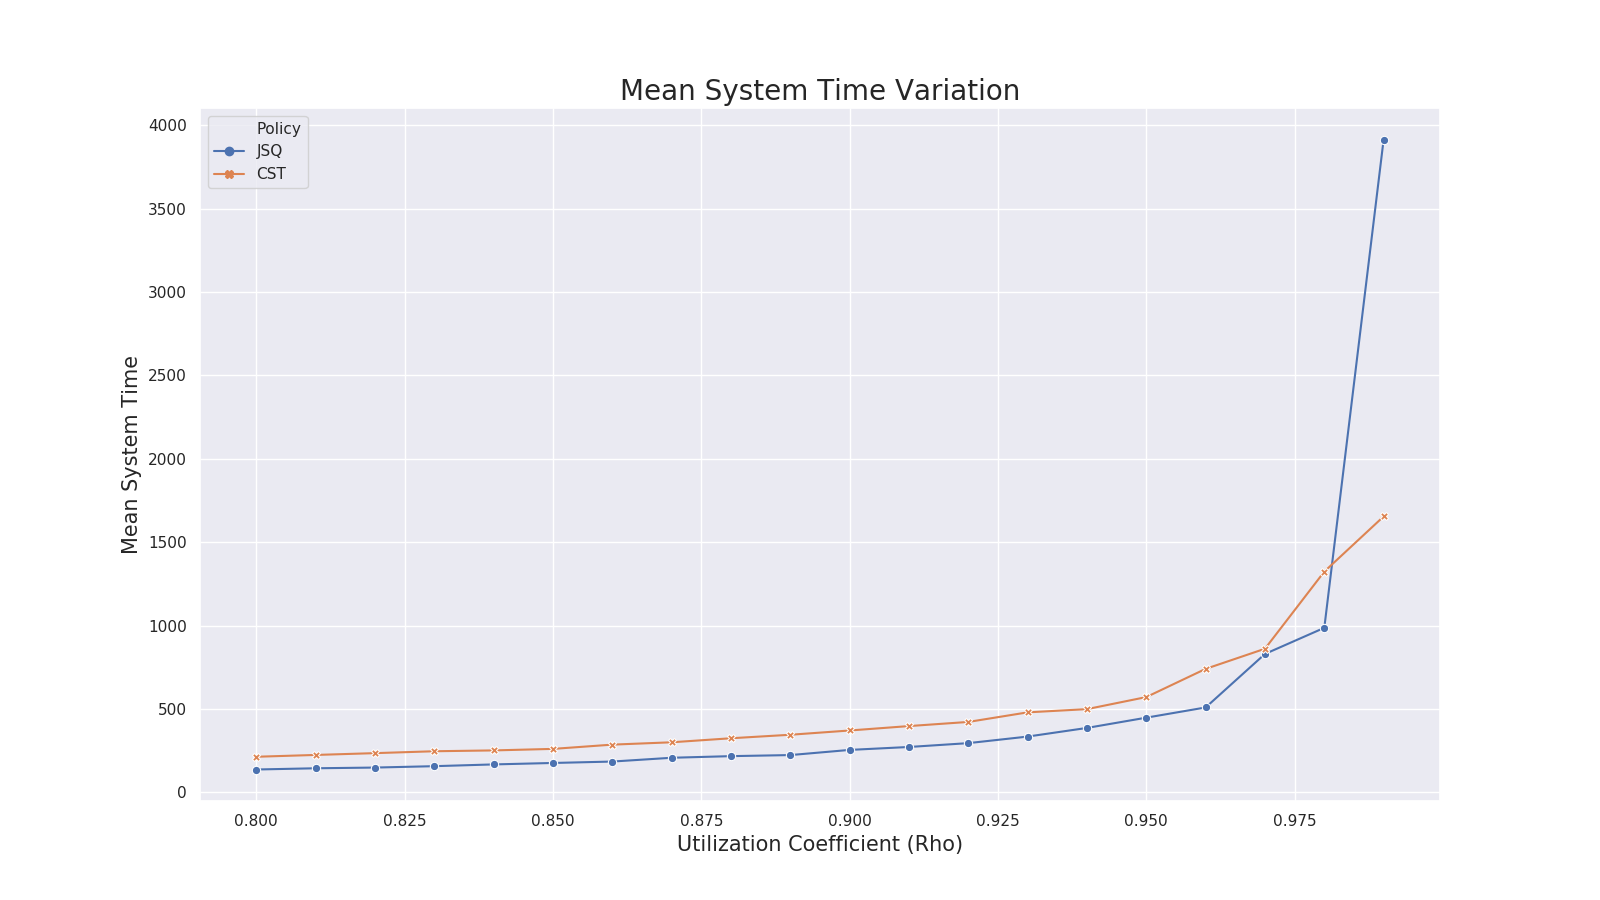
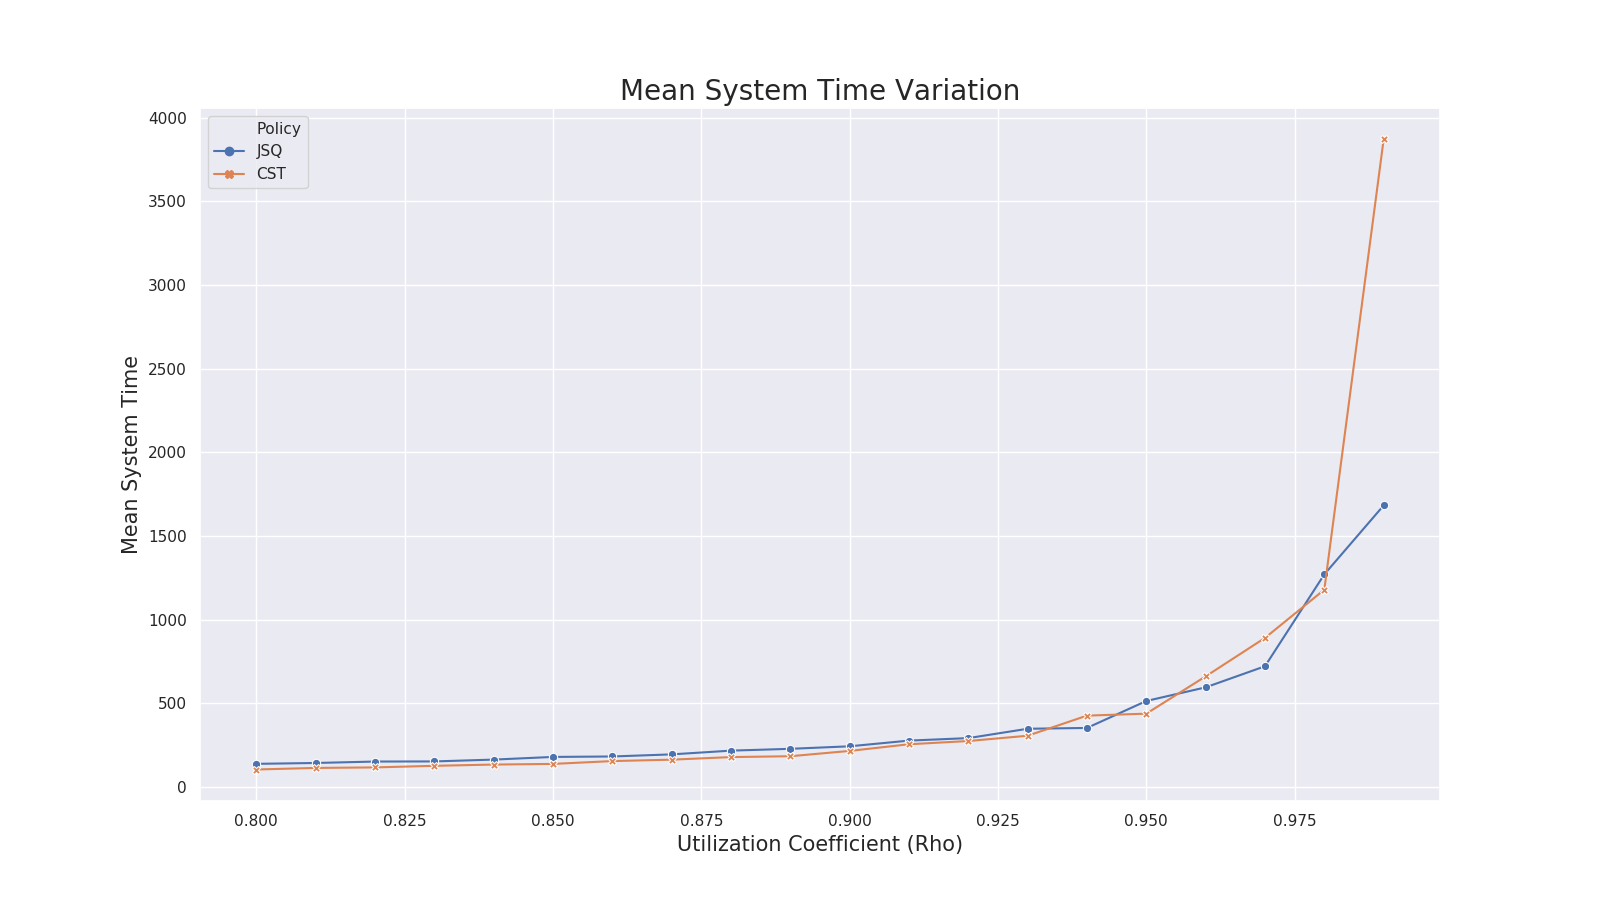
Final simulations

diff --git a/Dispatcher.py b/Dispatcher.py
@@ -110,7 +110,6 @@ class Dispatcher:
 
     def generate_task(self):
         r3 = random.uniform(0, 1)
-        # sostituire con exp x
         task = max(1, min(100*self.beta*2,
                           round(self.beta*(-math.log(r3))**(1/self.alpha))))
         return task
@@ -182,66 +181,31 @@ class Dispatcher:
 
         self.overhead /= self.number_of_tasks
 
-    # def rotate_servers(self, s_low, s_medium, s_high):
-    #     s_low_q = sum(self.servers[s] for s in s_low)/len(s_low)
-    #     s_med_q = sum(self.servers[s] for s in s_medium)/len(s_medium)
-    #     s_high_q = sum(self.servers[s] for s in s_high)/len(s_high)
-    #     queues = [s_low_q, s_med_q, s_high_q]
-
-    #     min_q_index = queues.index(min(queues))
-    #     max_q_index = queues.index(max(queues))
-
-    #     return None
-
-    # def process_custom1(self):
-    #     t_units = 0
-    #     n_servers = self.number_of_servers//3
-    #     servers = list(self.servers.keys())
-
-    #     s_low = servers[:n_servers]
-    #     s_medium = servers[n_servers:(n_servers*2)]
-    #     s_high = servers[(n_servers*2):]
-
-    #     sl = (-math.exp(0.54)*(self.beta**self.alpha))**(1/self.alpha)
-    #     su = (-math.exp(0.85)*(self.beta**self.alpha))**(1/self.alpha)
-
-    #     for time in self.tasks_timeline:
-    #         # if time > t_units:
-    #         #     self.rotate_servers(s_low, s_medium, s_high)
-    #         #     t_units += self.t
-
-    #         task = self.generate_task()
-    #         if task < sl:
-    #             server = self.pick_best_server(s_low, len(s_low))
-    #         elif task >= sl and task < su:
-    #             server = self.pick_best_server(s_medium, len(s_medium))
-    #         else:
-    #             server = self.pick_best_server(s_high, len(s_high))
-    #         self.assign_task(time, server, task)
-
-    #     self.overhead = 0
-
     def process_custom(self):
         servers = list(self.servers.keys())
 
-        sl = (-math.exp(0.54)*(self.beta**self.alpha))**(1/self.alpha)
-        su = (-math.exp(0.85)*(self.beta**self.alpha))**(1/self.alpha)
+        sl = (-math.exp(0.2)*(self.beta**self.alpha))**(1/self.alpha)
+        sm1 = (-math.exp(0.4)*(self.beta**self.alpha))**(1/self.alpha)
+        sm2 = (-math.exp(0.5)*(self.beta**self.alpha))**(1/self.alpha)
+        su = (-math.exp(0.7)*(self.beta**self.alpha))**(1/self.alpha)
 
         for time in self.tasks_timeline:
             task = self.generate_task()
             if task < sl:
-                server = self.pick_best_server_custom(servers, self.d, time)
-                self.overhead += self.d*2
-            elif task >= sl and task < su:
+                n_servers = len(servers)//4
+                server = self.pick_best_server_custom(servers, n_servers, time)
+            elif task >= sl and task < sm1:
                 n_servers = len(servers)//2
                 server = self.pick_best_server_custom(servers, n_servers, time)
-                self.overhead += n_servers
+            elif task >= sm1 and task < sm2:
+                n_servers = int(len(servers)/1.3)
+                server = self.pick_best_server_custom(servers, n_servers, time)
             else:
                 n_servers = len(servers)
                 server = self.pick_best_server_custom(
                     servers, len(servers), time)
-                self.overhead += n_servers
 
+            self.overhead += n_servers*2
             self.assign_task(time, server, task)
 
         self.overhead /= self.number_of_tasks
@@ -304,5 +268,6 @@ class Dispatcher:
         # if self.jbt and (self.rho > 0.989):
         #     plt.plot(range(len(self.rs)), self.rs)
         #     plt.show()
+        print("PROCESS TIMES = ", self.process_times)
 
         return mean_system_time, self.overhead
